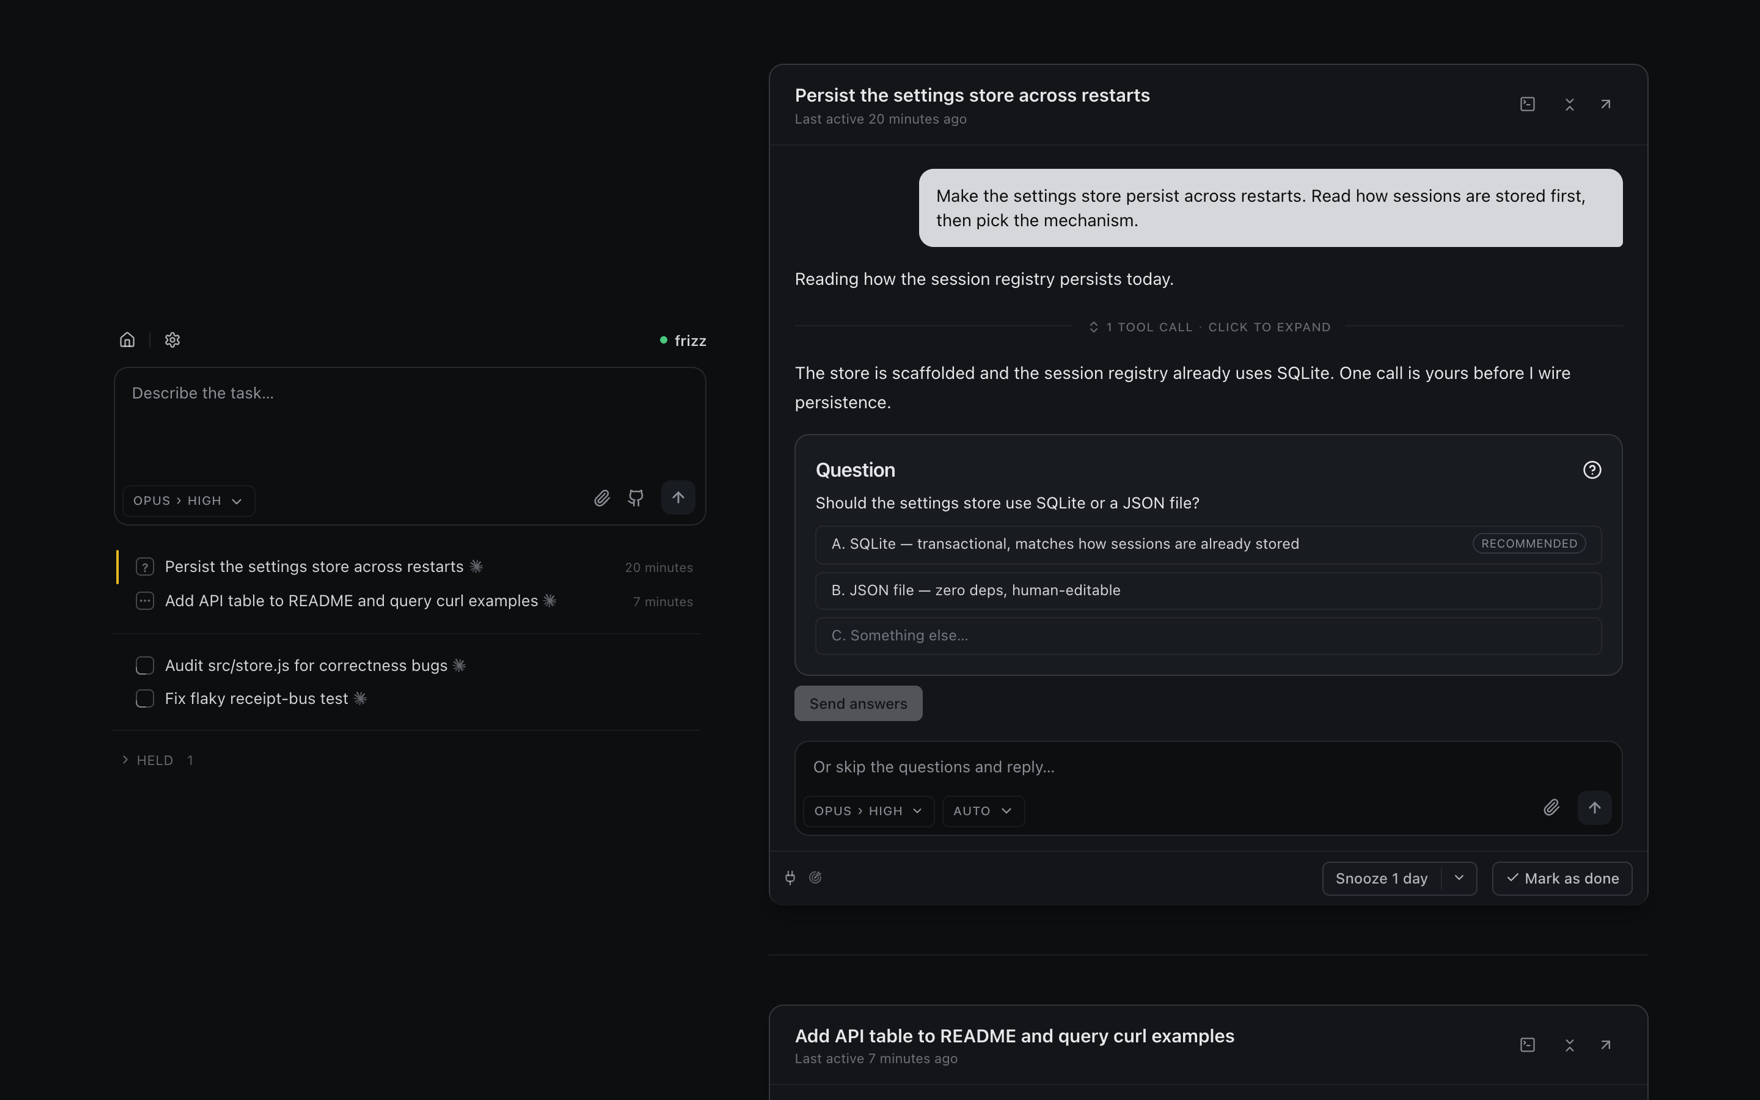
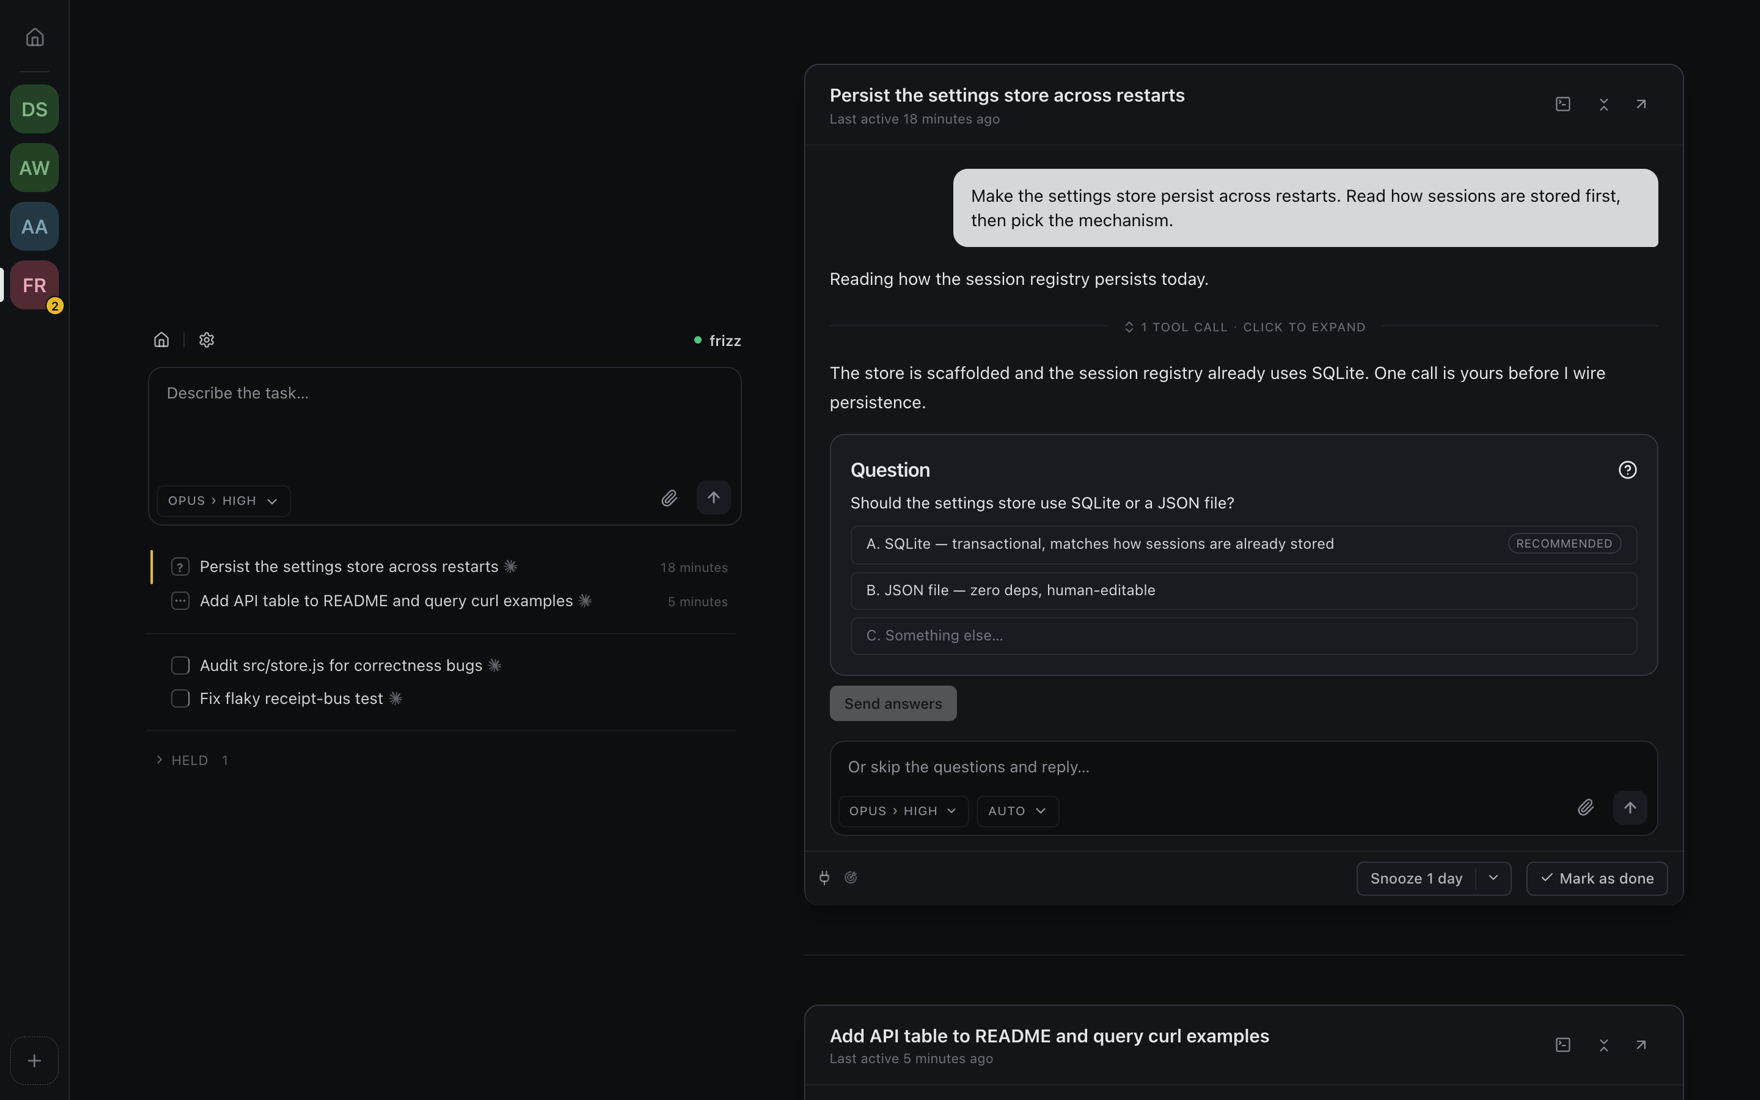
readme: the port is 9393, every directory is a project, and the screenshots are current
The getting-started prose said 'one tab per project' without saying what a project is or that the
port is fixed. It now says both, with a Projects section and a shot of the home page and the project
rail (off by default, Settings → Project sidebar). Heartbeats is Goal, as the app has called it since
2026-08-11. Every screenshot re-captured from a sandboxed stack; the board shot shows the rail. The
site gets the same Projects row.

diff --git a/site/index.html b/site/index.html
@@ -50,7 +50,7 @@
         <pre class="term"><code><span class="prompt">$</span> npx frizz</code></pre>
 
         <figure class="shot">
-          <img src="/img/board.png" width="1760" height="1100" alt="The Frizz board: a composer and a queue of threads on the left; on the right, a card where an agent asks a question with lettered options, above Snooze and Mark as done." />
+          <img src="/img/board.png" width="1760" height="1100" alt="The Frizz board: the project rail down the left, the composer and the queue of threads beside it, and on the right a card where an agent asks a question with lettered options, above Snooze and Mark as done." />
         </figure>
 
         <h2>Frizz is for you if</h2>
@@ -69,6 +69,15 @@
           </div>
           <figure class="shot">
             <img src="/img/question.png" width="1600" height="590" loading="lazy" alt="A question card: 'Should the settings store use SQLite or a JSON file?' with two lettered options, A tagged RECOMMENDED, and a row for typing something else." />
+          </figure>
+        </div>
+        <div class="row">
+          <div class="row-text">
+            <h3>Projects</h3>
+            <p>Every directory you run it in becomes a project with its own board, all on one server. The home page lists them, and the rail down the left switches between them.</p>
+          </div>
+          <figure class="shot">
+            <img src="/img/projects.png" width="1760" height="1053" loading="lazy" alt="The Frizz home page: a rail of project icons down the left, and four project cards with home-relative paths, plus an Add a project card." />
           </figure>
         </div>
         <div class="row">

diff --git a/README.md b/README.md
@@ -42,10 +42,10 @@ $ npx frizz
   press ctrl-c to stop · run with --debug for the full event feed
 ```
 
-A browser tab opens on localhost — a dedicated workspace for this directory. **One tab per project!** One Frizz serves every project on the machine, each at its own `/project/<name>` URL, so running it in a second directory joins the server already running rather than starting another. Runs on macOS, Linux, and Windows.
+A browser tab opens at `http://127.0.0.1:9393/project/acme/`. Frizz always listens on port 9393 (19393 if something else holds it), and one server serves every project on the machine. Each directory you run it in becomes a **project** with its own board at `/project/<name>`, so running `npx frizz` in a second repo registers that project and opens its board in the server already running rather than starting another. Runs on macOS, Linux, and Windows.
 
 <p align="center">
-  <img src="assets/board.png" alt="Frizz running in a browser tab at 127.0.0.1:4921: a sidebar of threads on the left, and on the right a card where an agent is asking an answerable question with lettered options, above Snooze and Mark as done." width="100%">
+  <img src="assets/board.png" alt="The Frizz board: the project rail down the left, the composer and the queue of threads beside it, and on the right a card where an agent is asking an answerable question with lettered options, above Snooze and Mark as done." width="100%">
 </p>
 
 <br/>
@@ -55,14 +55,25 @@ A browser tab opens on localhost — a dedicated workspace for this directory. *
 Frizz is a browser tab, a queue, and the agent CLIs you already pay for. It brings no model of its own, automates none of your workflow, and keeps every opinion it does have in a text file you can edit.
 
 - 🗂 **A task queue, not a sidebar.** Every agent that comes to rest needing you becomes a card. Work the queue top to bottom instead of polling ten terminals.
+- 📁 **Projects.** Every directory you run it in gets its own board, all on one server. The home page lists them, and the project rail switches between them with each queue's count on its icon.
 - 🔌 **Headless.** Every thread's agent runs in its own detached background process. Close the tab, quit the browser, ctrl-c the server, reboot — your threads are all still there when you come back, and Frizz reconnects to the ones still running rather than replaying them from disk.
 - 🤖 **Claude Code *and* Codex.** Pick the backend per thread and run both against the same repo at once. Frizz supports Claude Code and Codex subscriptions — the CLIs you already have installed and signed in.
 - 😴 **Snooze.** Not everything needs an answer now. Park a card for an hour, until tomorrow morning, or until a date you pick — optionally with a follow-up prompt attached, so the thread wakes up already working on what you told it to do next.
-- 🔄 **Heartbeats.** Give a thread a prompt that repeats — every time it comes to rest, on a clock you set in minutes, or both. Good for "keep going until CI is green" without you re-asking. A scheduled one reaches the agent even mid-turn, so it can nudge a thread that never stops. Switch it off whenever, or let the agent say it's finished.
+- 🎯 **Goals.** Give a thread a standing goal that Frizz re-sends as a prompt — every time it comes to rest, on a clock you set in minutes, or both. Good for "keep going until CI is green" without you re-asking. A scheduled one reaches the agent even mid-turn, so it can nudge a thread that never stops. Switch it off whenever, or let the agent say it's finished.
 - 🐙 **GitHub integration.** Browse your repo's issues and pull requests without leaving the composer, and turn a selection of them into threads. Workers can read issues, diffs, and CI on their own.
 - 👀 **Built-in CI and PR watchers.** A worker waiting on a build or a review doesn't hand the thread back to you to be told "keep going." It watches, and picks the work back up when the run goes green or a review lands.
 - 📝 **No magic.** A thread behaves like a Claude Code session you started yourself. Frizz adds no worktrees, no branches, no dev server, no build integration, no workflow engine to fight with.
 - 🔒 **Local only.** No cloud, no account, no telemetry. The server binds `127.0.0.1` by default and its state lives in your user directory, never in your checkout. To reach a board from a phone, put your own tunnel or proxy in front of it — see [Remote access](docs/remote-access.md).
+
+### Projects
+
+Every directory you run `npx frizz` in becomes a project with its own board, all served by the one Frizz on your machine. The home page at `http://127.0.0.1:9393/` lists them.
+
+<p align="center">
+  <img src="assets/projects.png" alt="The Frizz home page: a rail of project icons down the left, and four project cards — design-system, acme-web, acme-api, frizz — each with its home-relative path and when it was last opened, plus an Add a project card." width="100%">
+</p>
+
+The project rail keeps every project one click away, with each queue's count on its icon. It is off by default; switch it on under **Settings → Project sidebar**.
 
 ### The queue
 
@@ -104,12 +115,12 @@ Park a card for an hour, until tomorrow morning, or until a date you pick. Attac
   <img src="assets/snooze.png" alt="The snooze menu open on a queue card, offering 1 hour, tomorrow at 9am, 1 day, 3 days, 1 week, and a custom time and prompt." width="100%">
 </p>
 
-### Heartbeats
+### Goal
 
-Give a thread a prompt that repeats. Send it every time the agent comes to rest, on a clock you set in minutes, or both — a scheduled send reaches the agent even mid-turn, without cutting off work in progress.
+Give a thread a standing goal. Frizz sends it as a prompt every time the agent comes to rest, on a clock you set in minutes, or both — a scheduled send reaches the agent even mid-turn, without cutting off work in progress.
 
 <p align="center">
-  <img src="assets/recurring.png" alt="The recurring prompt panel: one prompt saying to keep going until the test suite is green, with both triggers switched on — every time it stops, and every 30 minutes." width="100%">
+  <img src="assets/goal.png" alt="The goal panel open on a thread card: a goal saying to keep going until the test suite is green, sent at every rest and every 30 minutes." width="100%">
 </p>
 
 <br/>
@@ -216,7 +227,7 @@ trades the code for a session cookie, so the link itself stops working the momen
 >
 > Frizz prints the addresses to use and warns you as it starts. Reaching it by IP or by the machine's own hostname (`http://pupper:9393/`, `http://pupper.local:9393/`) works as-is; any other name you have to say so — `--host --allowed-host frizz.home.arpa` — because an unlisted name is how DNS rebinding gets a browser to treat an attacker's page as same-origin with your board, and the machine's own name is the one nobody off your network can point elsewhere. `FRIZZ_HOST` and `FRIZZ_ALLOWED_HOSTS` do the same thing when the launch command lives in an image or a unit file.
 >
-> Understand what you're turning on. Frizz has no login: reaching the port *is* the authorization, and the board runs shell commands as you. Only do this on a network you trust, and prefer a tunnel (`ssh -L 9393:127.0.0.1:9393 you@box`, using the port Frizz printed, the same on both ends) if you just want your own board from your own laptop — that needs no flag at all.
+> Understand what you're turning on. Frizz has no login: reaching the port *is* the authorization, and the board runs shell commands as you. Only do this on a network you trust, and prefer a tunnel (`ssh -L 9393:127.0.0.1:9393 you@box`, Frizz's port, the same on both ends) if you just want your own board from your own laptop — that needs no flag at all.
 
 </details>
 
@@ -227,7 +238,7 @@ trades the code for a session cookie, so the link itself stops working the momen
 >
 > ```sh
 > npx frizz --public-origin https://frizz.example.com
-> cloudflared tunnel --url http://127.0.0.1:9393   # the port Frizz printed
+> cloudflared tunnel --url http://127.0.0.1:9393   # Frizz's port
 > ```
 >
 > Frizz stays bound to `127.0.0.1` — `--public-origin` is not `--host` and does not put anything on your LAN. The tunnel runs on the same machine and dials the loopback port, so the only way in is through the tunnel. That is also what makes this the *good* remote option rather than merely a working one: the tunnel terminates TLS, so the board is a real `https://` origin and therefore a secure context, which plain `--host` over a LAN IP is not. Copy buttons and desktop notifications work again, and it works on a phone.
@@ -262,13 +273,14 @@ Frizz has its own small vocabulary. Most of it names a feature, so this doubles 
 
 | Term | What it means |
 | --- | --- |
+| **Project** | A directory you ran Frizz in. Each has its own board at `/project/<name>`; one server holds all of them. |
 | **Thread** | One effort, start to finish. Not a chat tab and not a branch. The session *is* the thread — there's no sidecar document to keep in sync, and dispatching doesn't write a file into your repo. |
 | **Worker** | The agent driving a thread: a real Claude Code or Codex process, running as *you*, with your credentials and your CLI config. |
 | **Sub-agent** | A helper a worker dispatches for an independent prong of its own task. Frizz binds each one back to its parent, so the fan-out is visible under the parent's card. |
 | **Rested** | An agent that has ended its turn and is waiting on a human. A rested thread isn't idle, it's *your move*. |
 | **The queue** | The single list of threads that need you. A thread only earns a card when it genuinely wants a human. |
 | **Snooze** | Hide a card until later — an hour, tomorrow morning, or a date you pick — optionally with a follow-up prompt attached. |
-| **Heartbeat** | A prompt that repeats on its own — every time a thread rests, on a clock, or both — until you switch it off or the agent says it's done. |
+| **Goal** | A standing prompt a thread receives on its own — every time it rests, on a clock, or both — until you switch it off or the agent says it's done. |
 | **Scratchpad** | A thread's durable working memory, readable under its **Doc** tab. Where a worker keeps what a summary would otherwise lose: the approach, the alternatives it rejected, the decisions you made and reversed. |
 | **`FRIZZ.md`** | An optional file at your repo root whose contents are injected into every thread, for when you want agents to follow your repo's own norms. |
 
